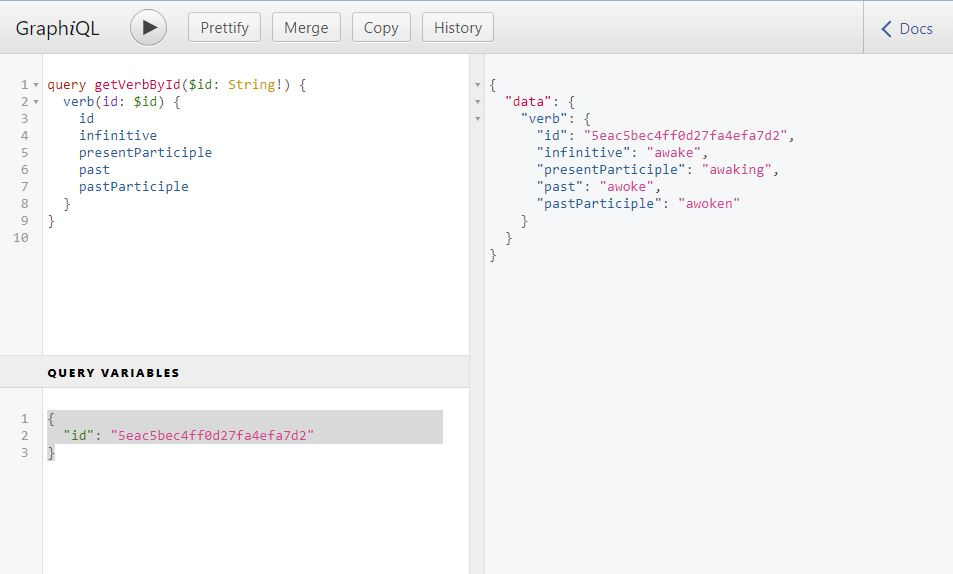
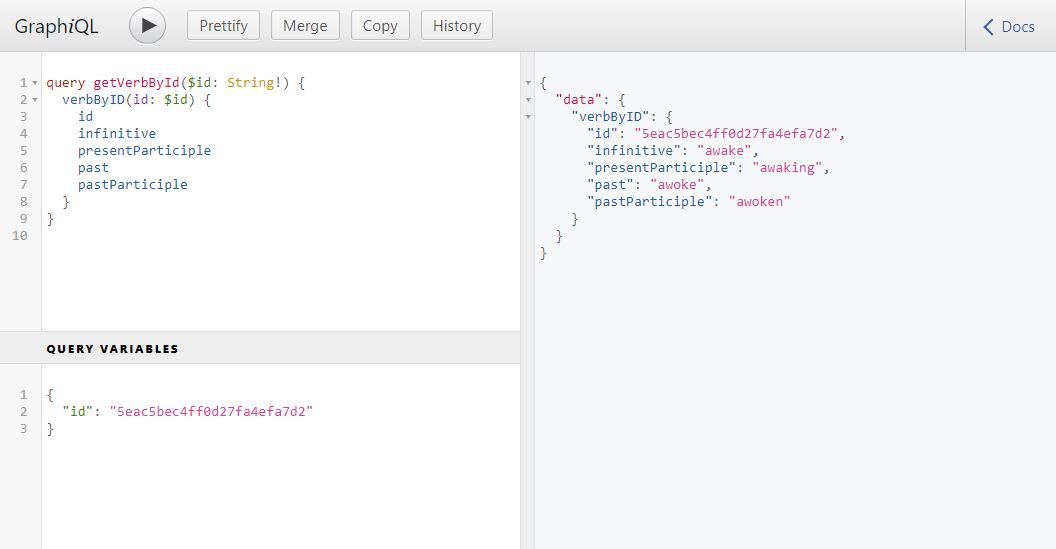
id query renamed

diff --git a/server.js b/server.js
@@ -7,7 +7,7 @@ const verbsData = require("./data/verbs.json");
 /* Construct a schema using GraphQL schema language */
 const schema = buildSchema(`
     type Query {
-        verb(id: String!): Verb
+        verbByID(id: String!): Verb
         verbs: [Verb]
     },
     type Verb {
@@ -32,7 +32,7 @@ const getVerbs = () => {
 };
 
 const root = {
-  verb: getVerbById,
+  verbByID: getVerbById,
   verbs: getVerbs,
 };
 

diff --git a/README.md b/README.md
@@ -32,7 +32,7 @@ Use the following query
 
 ```graphql
 query getVerbById($id: String!) {
-  verb(id: $id) {
+  verbByID(id: $id) {
     id
     infinitive
     presentParticiple
